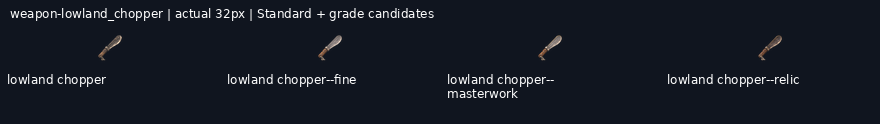
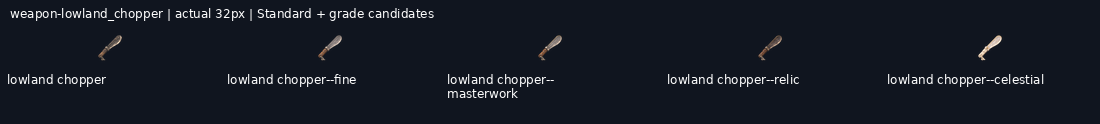
Deliver weapon-lowland_chopper--celestial review candidate

diff --git a/art/_archive/gear/2026-11-20-reset-continuation/HANDOFF.md b/art/_archive/gear/2026-11-20-reset-continuation/HANDOFF.md
@@ -1,13 +1,13 @@
 # Reset continuation progress
 
-Branch: `art/2026-11-20-reset-continuation`. New deliveries: 25/46.
+Branch: `art/2026-11-20-reset-continuation`. New deliveries: 26/46.
 
 Shared coordination: https://github.com/leonpentastorm/Project-Heaven-Cry/issues/3 . Read START-HERE.md before extending this queue.
 
 All new entries remain review-candidate; production_approved:false and implementation_ready:false. Exact-outline review remains pending.
 
-Ready jobs: weapon-lowland_chopper--celestial, weapon-dock_cutter--fine, weapon-broadback_sabre--fine, weapon-legion_leaf_dagger--fine, weapon-legion_rank_sword--fine.
+Ready jobs: weapon-dock_cutter--fine, weapon-broadback_sabre--fine, weapon-legion_leaf_dagger--fine, weapon-legion_rank_sword--fine.
 
-Pending jobs: weapon-hellraiser_rotary--celestial, weapon-purifier_flamer--masterwork, weapon-purifier_flamer--relic, weapon-purifier_flamer--celestial, weapon-lowland_chopper--celestial, weapon-dock_cutter--fine, weapon-dock_cutter--masterwork, weapon-dock_cutter--relic, weapon-dock_cutter--celestial, weapon-broadback_sabre--fine, weapon-broadback_sabre--masterwork, weapon-broadback_sabre--relic, weapon-broadback_sabre--celestial, weapon-legion_leaf_dagger--fine, weapon-legion_leaf_dagger--masterwork, weapon-legion_leaf_dagger--relic, weapon-legion_leaf_dagger--celestial, weapon-legion_rank_sword--fine, weapon-legion_rank_sword--masterwork, weapon-legion_rank_sword--relic, weapon-legion_rank_sword--celestial.
+Pending jobs: weapon-hellraiser_rotary--celestial, weapon-purifier_flamer--masterwork, weapon-purifier_flamer--relic, weapon-purifier_flamer--celestial, weapon-dock_cutter--fine, weapon-dock_cutter--masterwork, weapon-dock_cutter--relic, weapon-dock_cutter--celestial, weapon-broadback_sabre--fine, weapon-broadback_sabre--masterwork, weapon-broadback_sabre--relic, weapon-broadback_sabre--celestial, weapon-legion_leaf_dagger--fine, weapon-legion_leaf_dagger--masterwork, weapon-legion_leaf_dagger--relic, weapon-legion_leaf_dagger--celestial, weapon-legion_rank_sword--fine, weapon-legion_rank_sword--masterwork, weapon-legion_rank_sword--relic, weapon-legion_rank_sword--celestial.
 
 Quota state: null.
